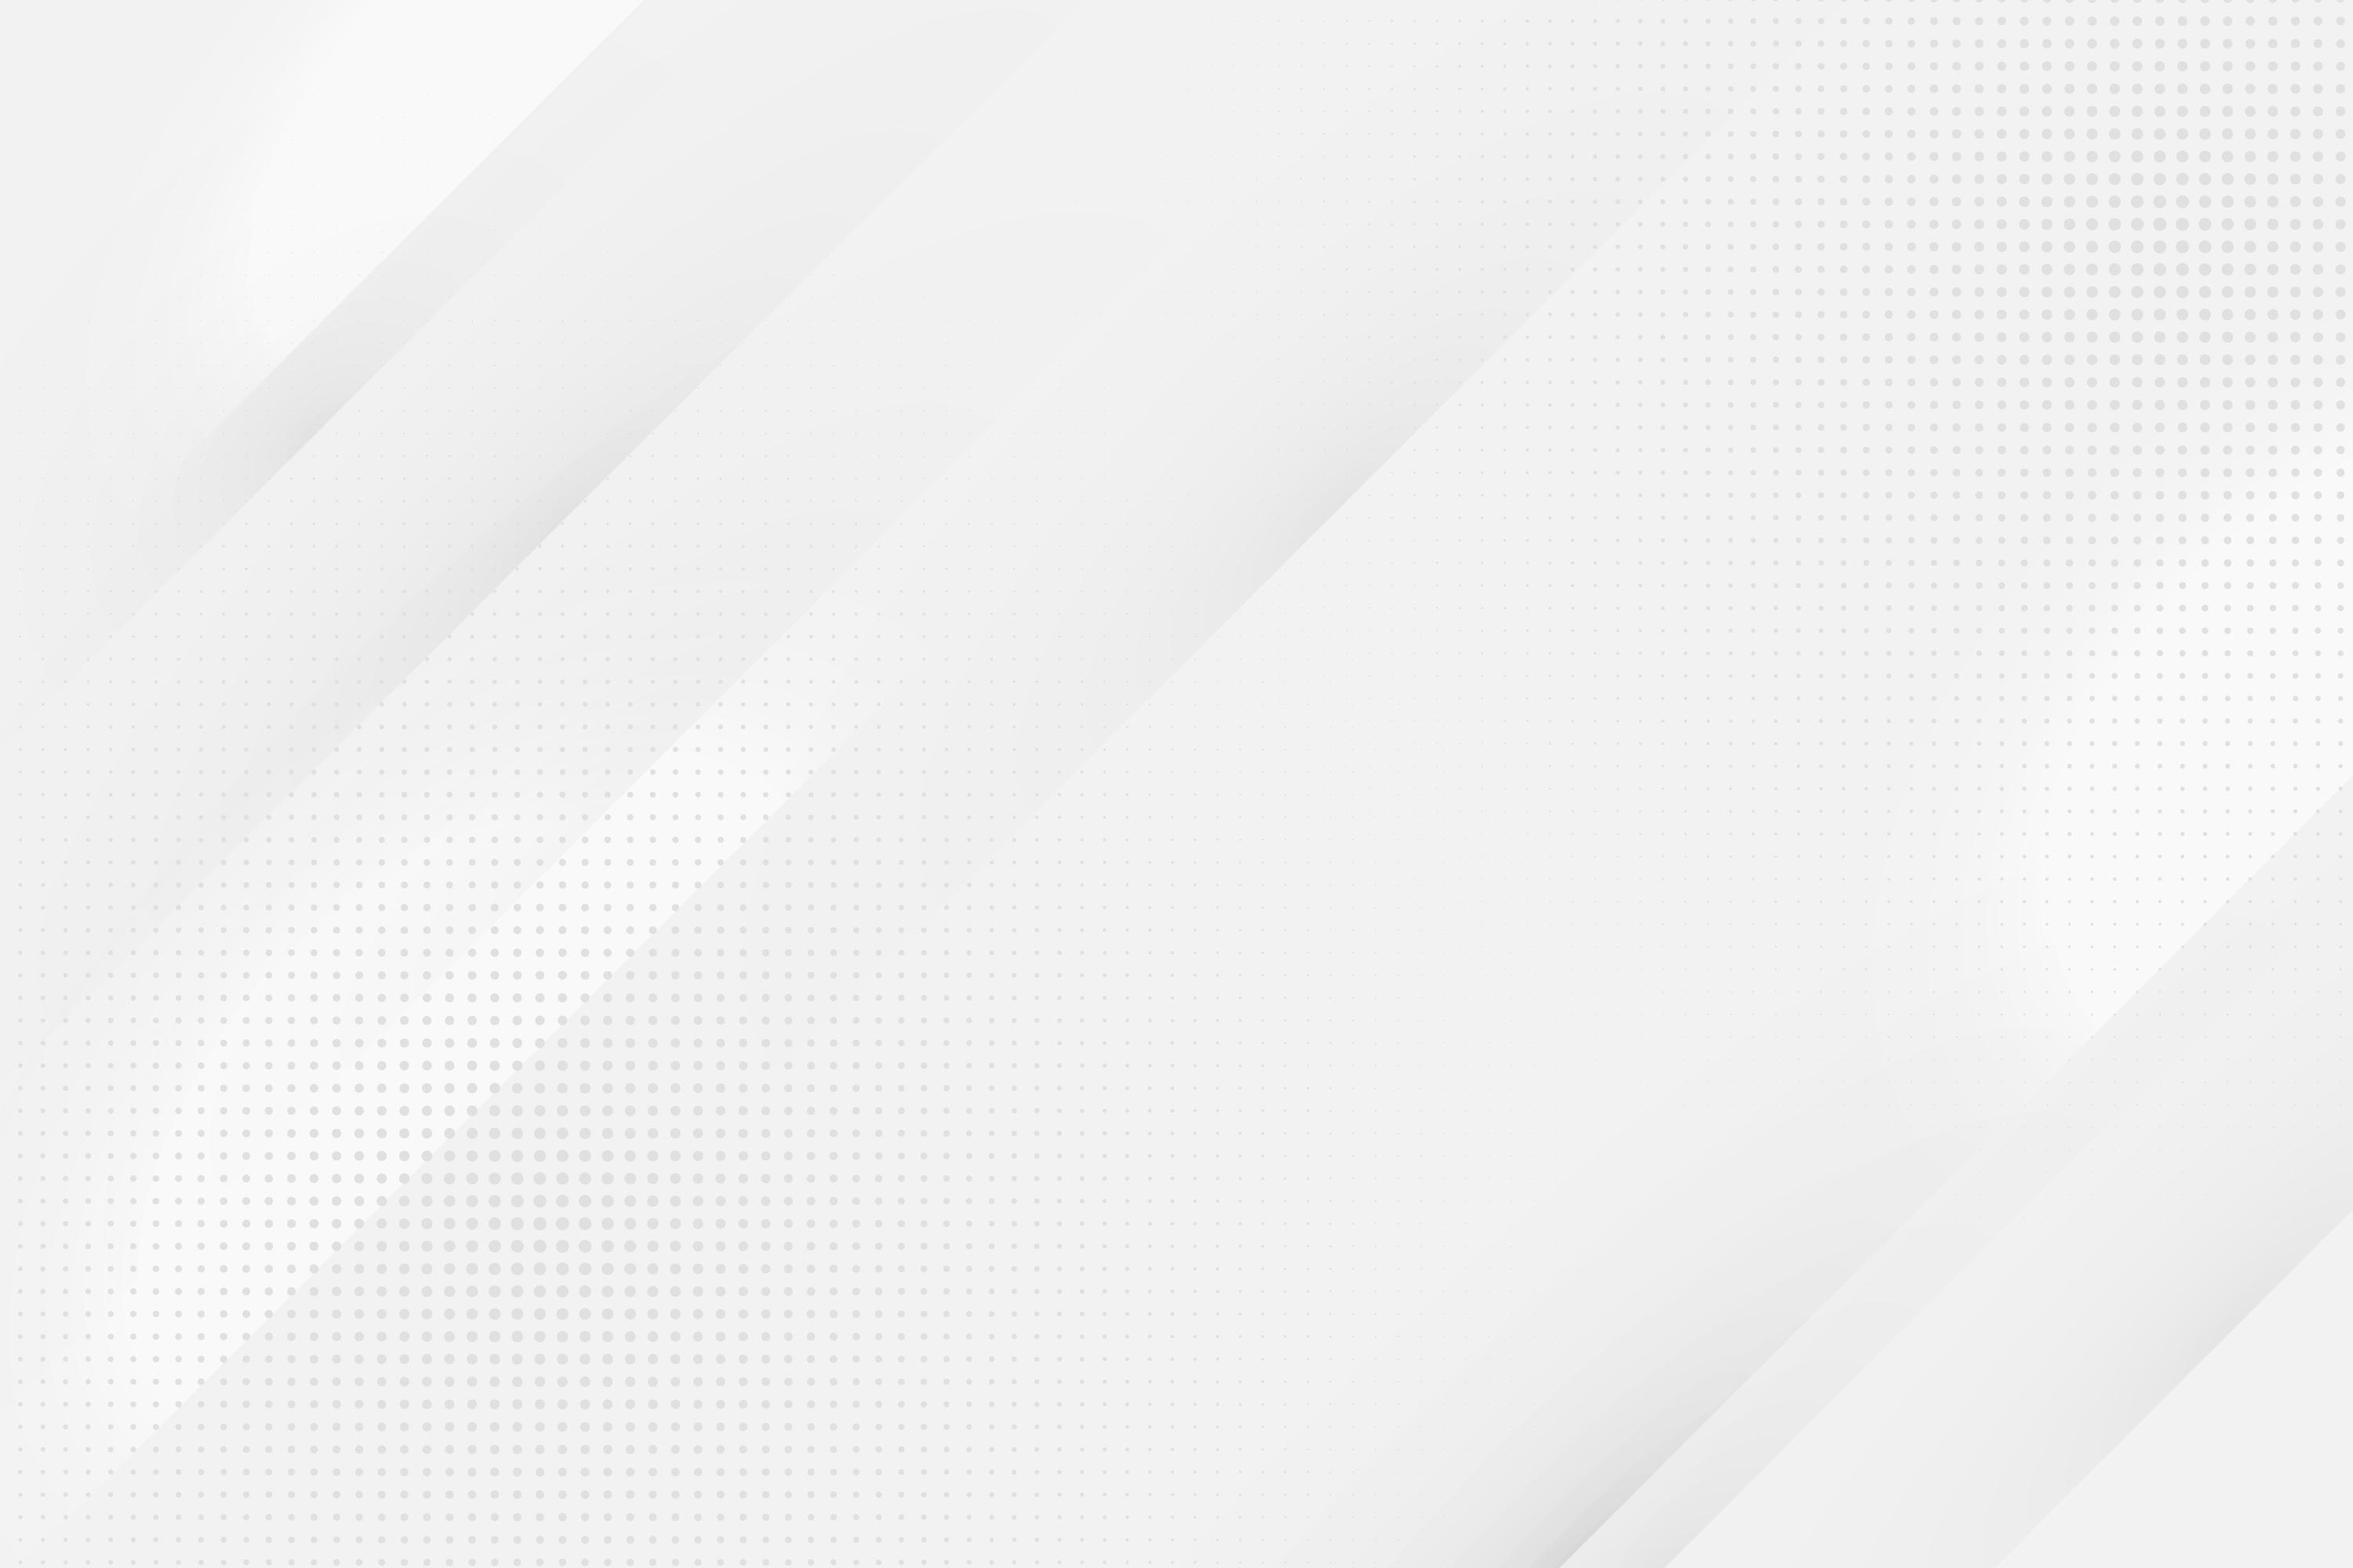
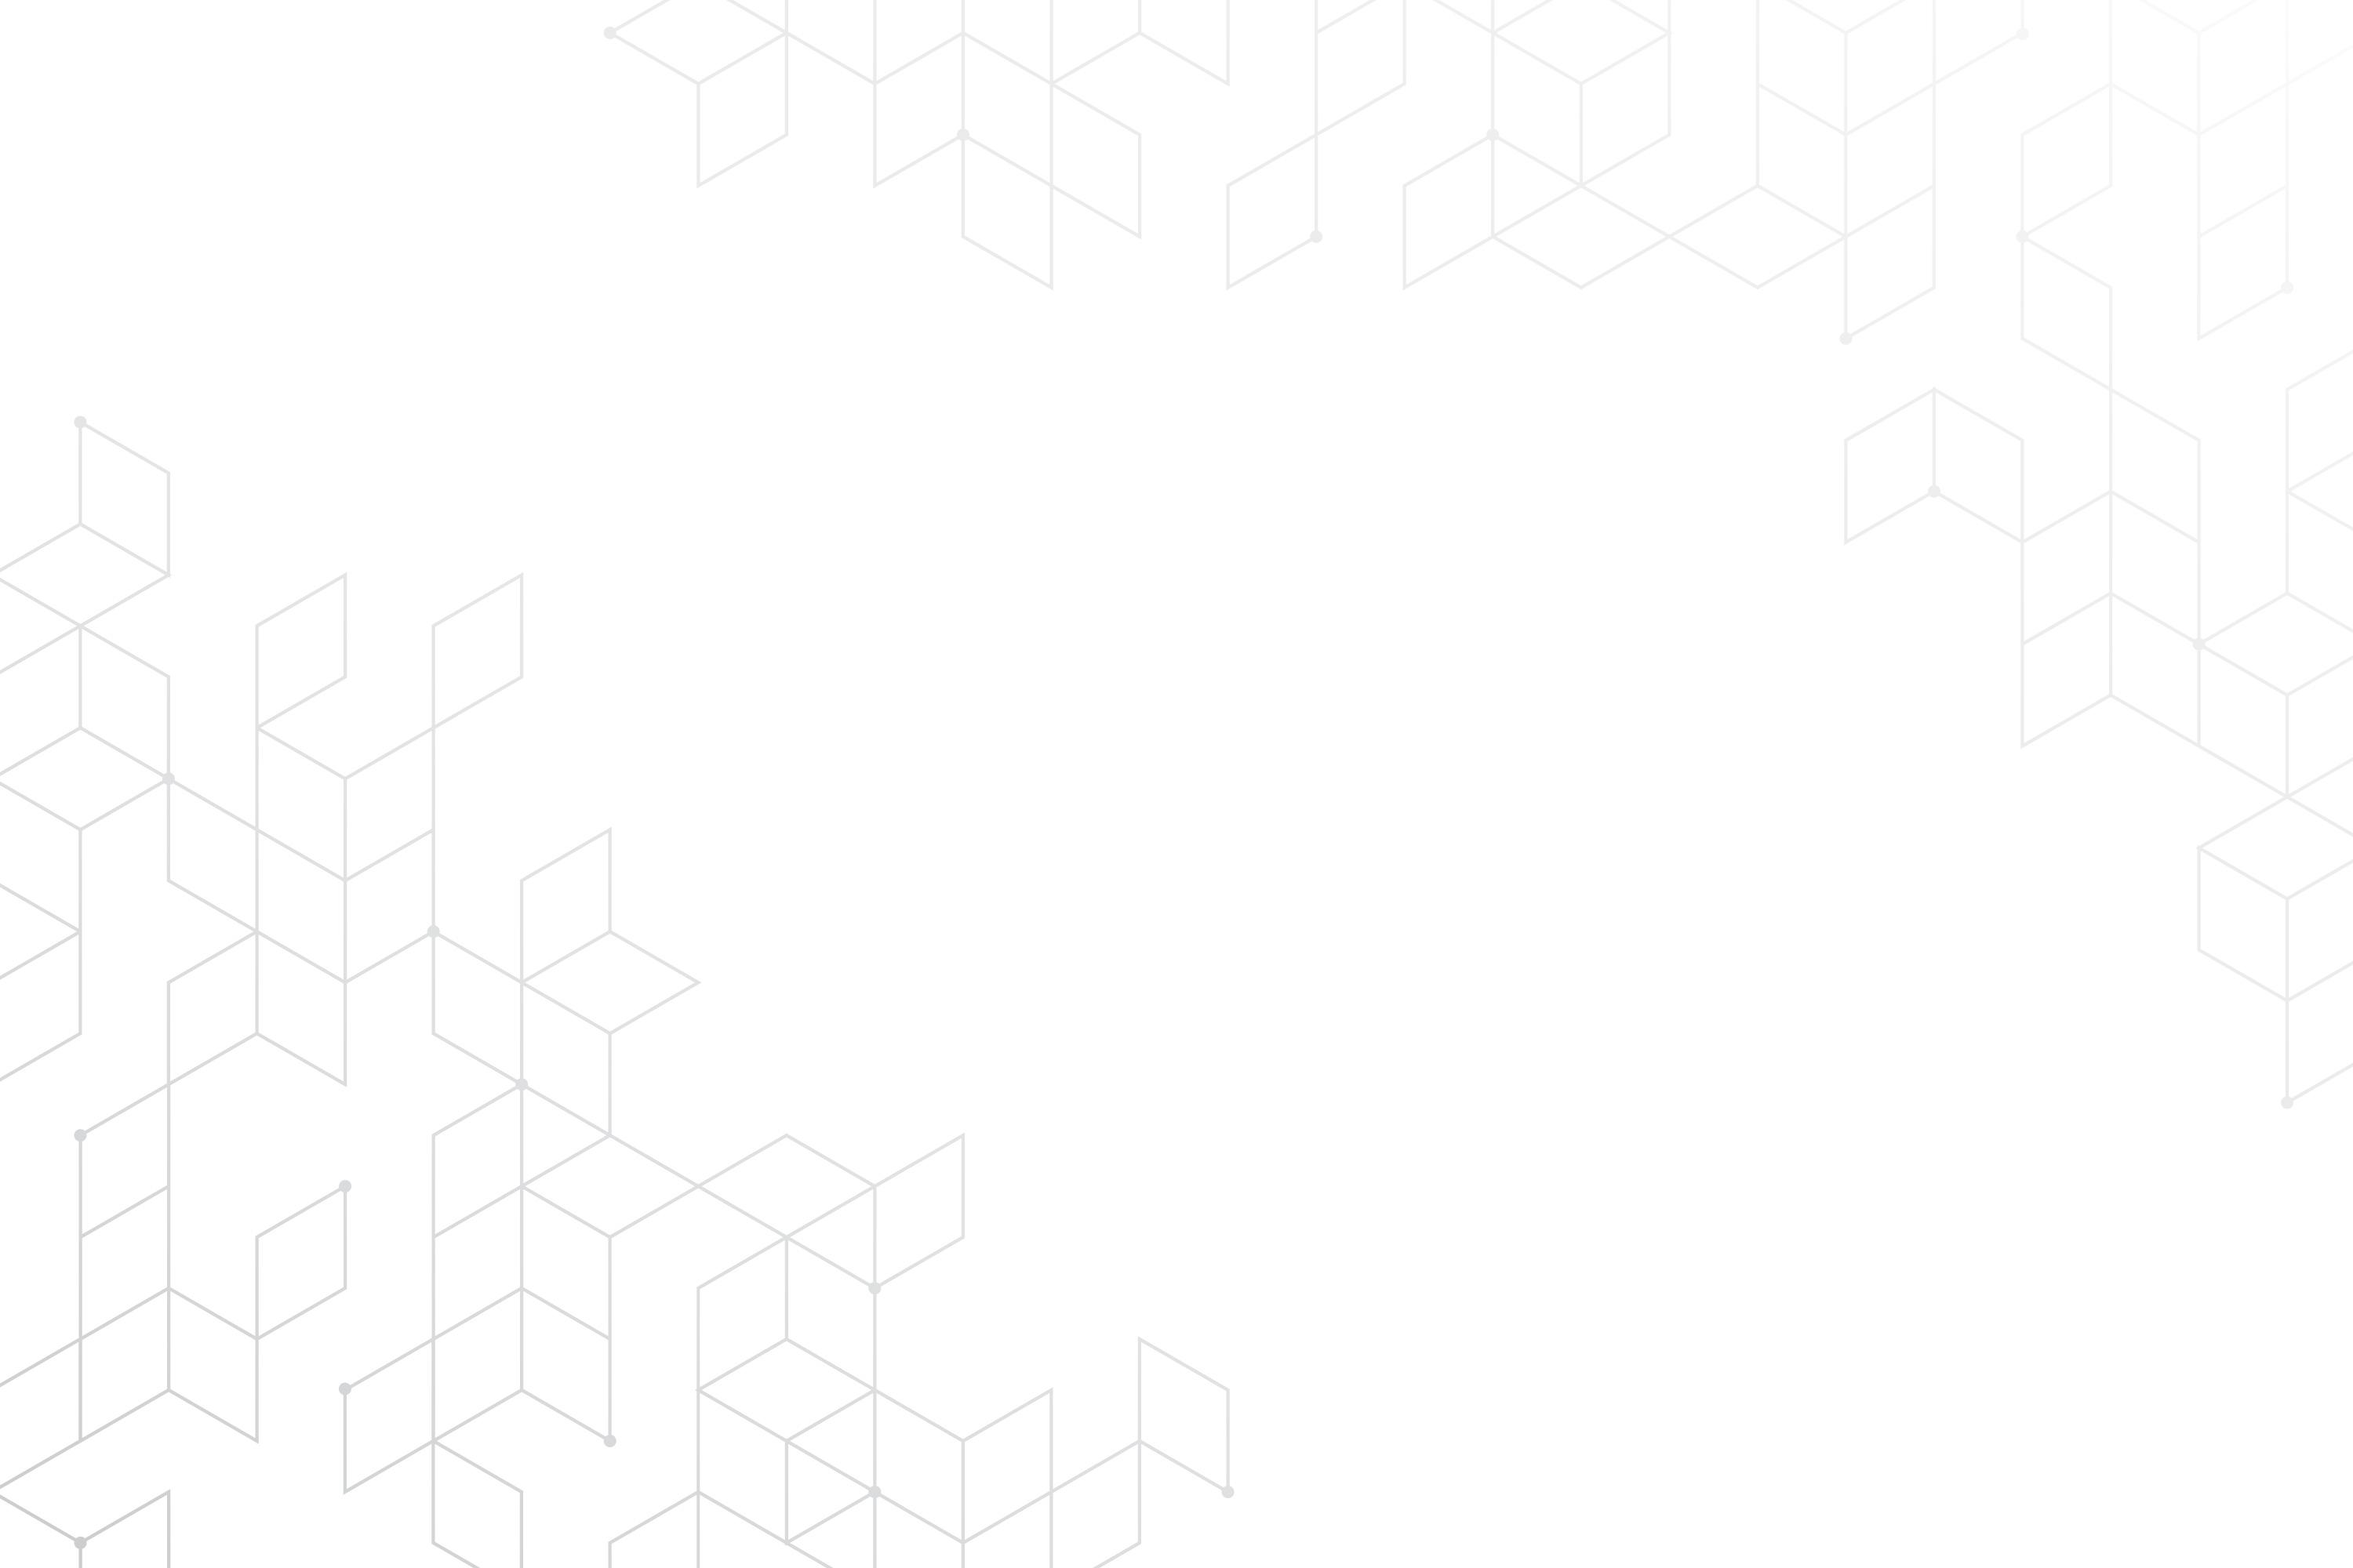
change hero bg

diff --git a/components/Hero.tsx b/components/Hero.tsx
@@ -7,7 +7,7 @@ export default function Hero() {
   const { openModal, toggleModal } = React.useContext(AppContext)
   return (
     <section className="flex h-screen flex-col justify-between bg-hero-pattern bg-cover text-zinc-800">
-      <div className="h-full w-full">
+      <div className="h-full w-full bg-white bg-opacity-90">
         <div className="relative">
           <nav className={`top-0 mx-auto hidden w-full py-7 md:flex`}>
             <div className="container mx-auto flex max-w-6xl justify-between">

diff --git a/tailwind.config.js b/tailwind.config.js
@@ -16,7 +16,7 @@ module.exports = {
         sans: ["Inter", ...defaultTheme.fontFamily.sans],
       },
       backgroundImage: {
-        "hero-pattern": "url('https://img.freepik.com/free-vector/abstract-background-with-squares_23-2148995948.jpg?w=1380&t=st=1680233409~exp=1680234009~hmac=2f02b0a429a1e6c6525012b81f11311908878b53c1bd068ec1574b01417a4637')",
+        "hero-pattern": "url('../assets/hero-bg-2.jpg')",
         divider: "url('../assets/divider.jpg')",
       },
       borderRadius: {
